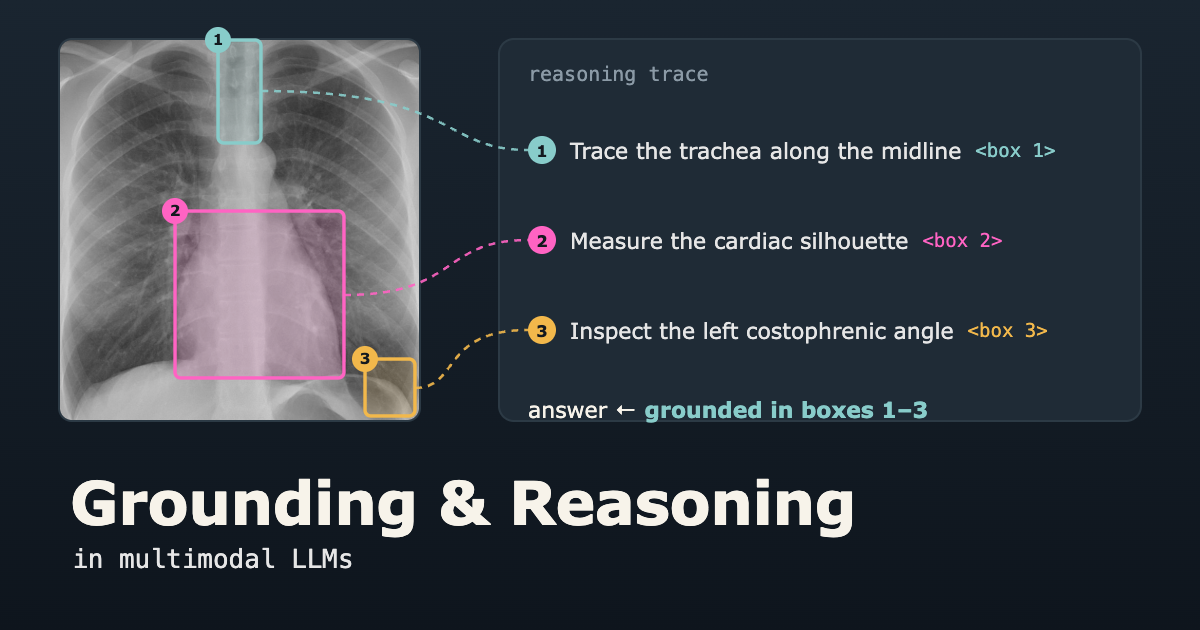
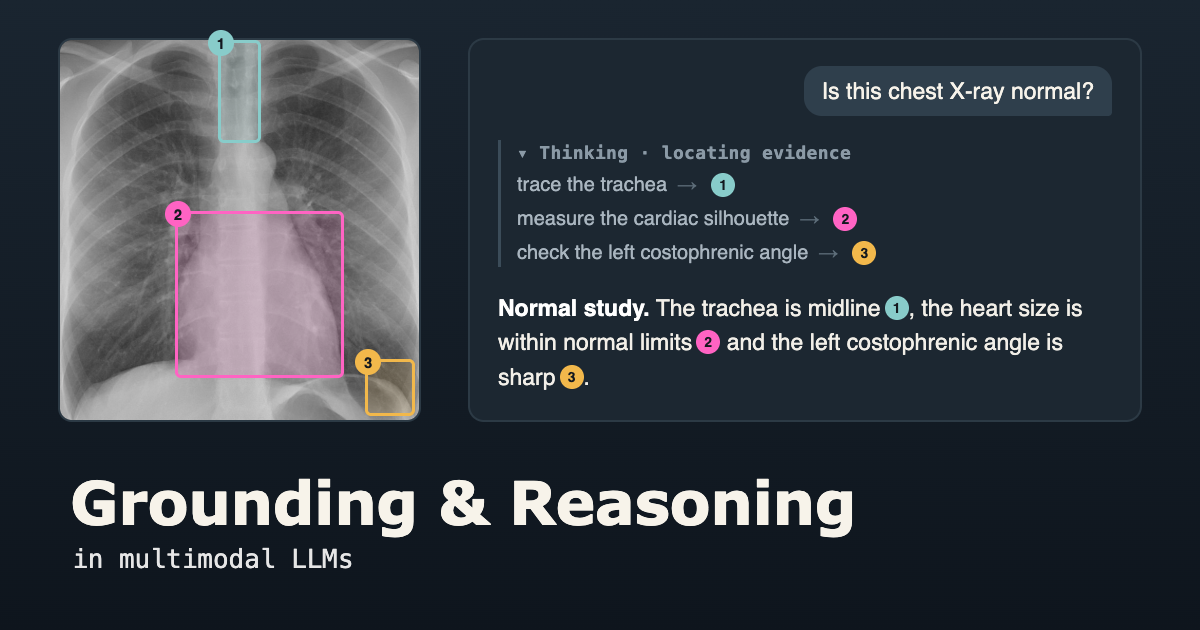
Redesign the Grounding thumbnail as a cited chat answer and indent the question list

diff --git a/pages/works/grounding-reasoning.js b/pages/works/grounding-reasoning.js
@@ -31,7 +31,7 @@ const Work = () => (
         project asks how to make the answers of multimodal LLMs traceable to the
         evidence they were given. Four questions guide it:
       </P>
-      <OrderedList spacing={0.5} my={3} pl={2}>
+      <OrderedList spacing={0.5} my={3} pl={10}>
         <ListItem>
           Where inside a vision-language model does visual evidence enter the
           answer, and where does it get lost?

diff --git a/figures/grounding_thumbnail/gen.py b/figures/grounding_thumbnail/gen.py
@@ -1,49 +1,55 @@
+"""Grounding & Reasoning thumbnail (1200x630).
+Left: CC0 chest radiograph with numbered evidence boxes.
+Right: chat transcript - question, thinking steps that locate evidence, answer with
+Perplexity-style citation chips whose numbers and colours match the boxes.
+The source image is labelled a normal PA radiograph on Wikimedia Commons; the answer
+only restates that, citing the regions it rests on."""
 import sys
 out = sys.argv[1]
-# X-ray panel geometry (image is 1700x1800 crop -> 300x318)
 PX, PY, PW, PH = 60, 40, 359, 380
-def box(fx0, fx1, fy0, fy1):
-    return PX + fx0 * PW, PY + fy0 * PH, (fx1 - fx0) * PW, (fy1 - fy0) * PH
 TEAL, PINK, AMBER = "#88ccca", "#ff63c3", "#f2b84b"
-regions = [  # fractions of the crop, read off the radiograph
-    ("1", TEAL,  box(0.44, 0.56, 0.00, 0.27)),   # trachea
-    ("2", PINK,  box(0.32, 0.79, 0.45, 0.89)),   # cardiac silhouette
-    ("3", AMBER, box(0.85, 0.99, 0.84, 0.99)),   # left costophrenic angle
-]
-steps = [("1", TEAL, "Trace the trachea along the midline"),
-         ("2", PINK, "Measure the cardiac silhouette"),
-         ("3", AMBER, "Inspect the left costophrenic angle")]
-svg = []
-for n, c, (x, y, w, h) in regions:
-    svg.append(f'<rect x="{x:.0f}" y="{y:.0f}" width="{w:.0f}" height="{h:.0f}" rx="6" fill="{c}" fill-opacity=".14" stroke="{c}" stroke-width="3.5"/>')
-    svg.append(f'<circle cx="{x:.0f}" cy="{y:.0f}" r="13" fill="{c}"/><text x="{x:.0f}" y="{y+5:.0f}" font-size="15" font-weight="700" text-anchor="middle" fill="#14191f">{n}</text>')
-# reasoning card
-CX, CY, CW = 500, 40, 640
-rows_y = [150, 240, 330]
-for (n, c, s), ry, (_, _, (x, y, w, h)) in zip(steps, rows_y, regions):
-    # connector from region box right edge to step chip
-    sx, sy = x + w, y + h / 2
-    svg.append(f'<path d="M{sx:.0f} {sy:.0f} C {CX-40} {sy:.0f}, {CX-60} {ry}, {CX+28} {ry}" fill="none" stroke="{c}" stroke-width="2.5" stroke-dasharray="7 6" opacity=".9"/>')
-svg = "".join(svg)
-step_html = "".join(f'''<div class="step" style="top:{ry-24}px"><span class="chip" style="background:{c}">{n}</span><span class="txt">{s}</span><span class="ref" style="color:{c}">&lt;box {n}&gt;</span></div>''' for (n, c, s), ry in zip(steps, rows_y))
+REG = [("1", TEAL, (0.44, 0.56, 0.00, 0.27)),   # trachea
+       ("2", PINK, (0.32, 0.79, 0.45, 0.89)),   # cardiac silhouette
+       ("3", AMBER, (0.85, 0.99, 0.84, 0.99))]  # left costophrenic angle
+boxes = "".join(
+    f'<div class="bx" style="left:{x0*100}%;top:{y0*100}%;width:{(x1-x0)*100}%;height:{(y1-y0)*100}%;'
+    f'border-color:{c};background:{c}22"><span class="tag" style="background:{c}">{n}</span></div>'
+    for n, c, (x0, x1, y0, y1) in REG)
+chip = lambda n, c: f'<span class="cite" style="background:{c}">{n}</span>'
+C = {n: c for n, c, _ in REG}
 html = f"""<!doctype html><meta charset=utf-8><style>
+*{{box-sizing:border-box}}
 html,body{{margin:0;width:1200px;height:630px;overflow:hidden}}
-body{{background:linear-gradient(180deg,#1a2530,#0e151d);font-family:'DejaVu Sans',Verdana,sans-serif;position:relative;color:#e6e6e6}}
-.xr{{position:absolute;left:{PX}px;top:{PY}px;width:{PW}px;height:{PH}px;border-radius:12px;box-shadow:0 0 0 2px #2c3a45}}
-svg{{position:absolute;left:0;top:0}}
-.card{{position:absolute;left:{CX}px;top:{CY}px;width:{CW}px;height:{PH}px;border-radius:14px;background:#1f2b36;box-shadow:0 0 0 2px #2c3a45}}
-.head{{position:absolute;left:{CX+28}px;top:{CY+22}px;font:20px Menlo,monospace;color:#8b9aa6}}
-.step{{position:absolute;left:{CX+28}px;height:48px;display:flex;align-items:center;gap:14px;font-size:22px}}
-.chip{{width:28px;height:28px;border-radius:50%;color:#14191f;font-weight:700;font-size:16px;display:flex;align-items:center;justify-content:center}}
-.ref{{font:19px Menlo,monospace}}
-.ans{{position:absolute;left:{CX+28}px;top:{CY+356}px;font-size:22px;color:#f7f3ea}}
-.ans b{{color:#88ccca}}
-h1{{position:absolute;left:70px;bottom:92px;margin:0;color:#f7f3ea;font-size:60px;font-weight:700;letter-spacing:-.5px}}
-p{{position:absolute;left:72px;bottom:56px;margin:0;color:#e6e6e6;font:26px Menlo,monospace}}
+body{{background:linear-gradient(180deg,#1a2530,#0e151d);font-family:Helvetica,Arial,sans-serif;color:#e6e6e6;position:relative}}
+.xr{{position:absolute;left:{PX}px;top:{PY}px;width:{PW}px;height:{PH}px;border-radius:12px;overflow:visible;box-shadow:0 0 0 2px #2c3a45}}
+.xr img{{width:100%;height:100%;display:block;border-radius:12px}}
+.bx{{position:absolute;border:3.5px solid;border-radius:6px}}
+.tag{{position:absolute;left:-13px;top:-13px;width:26px;height:26px;border-radius:50%;color:#14191f;font:700 15px Helvetica,Arial,sans-serif;display:flex;align-items:center;justify-content:center}}
+.chat{{position:absolute;left:470px;top:{PY}px;width:670px;height:{PH}px;border-radius:14px;background:#1c2731;box-shadow:0 0 0 2px #2c3a45;
+      padding:26px 28px;display:flex;flex-direction:column;justify-content:space-between}}
+.q{{align-self:flex-end;background:#2f3f4c;color:#f7f3ea;border-radius:18px 18px 4px 18px;padding:12px 18px;font-size:23px}}
+.think{{border-left:3px solid #3b4c59;padding:2px 0 2px 16px;display:flex;flex-direction:column;gap:10px}}
+.th{{font:600 18px Menlo,monospace;color:#8b9aa6;letter-spacing:.3px}}
+.st{{display:flex;align-items:center;gap:10px;font-size:20px;color:#a9b5bf}}
+.st .ar{{color:#5d6d79}}
+.ans{{font-size:23px;line-height:1.5;color:#f2efe8}}
+.ans b{{color:#fff}}
+.cite{{display:inline-flex;align-items:center;justify-content:center;width:24px;height:24px;border-radius:50%;
+       color:#14191f;font:700 14px Helvetica,Arial,sans-serif;vertical-align:3px;margin-left:4px}}
+h1{{position:absolute;left:70px;bottom:92px;margin:0;font-family:Verdana,'DejaVu Sans',sans-serif;color:#f7f3ea;font-size:60px;font-weight:700;letter-spacing:-.5px}}
+p.sub{{position:absolute;left:72px;bottom:56px;margin:0;color:#e6e6e6;font:26px Menlo,monospace}}
 </style>
-<img class=xr src="cxr.jpg"><div class=card></div><div class=head>reasoning trace</div>
-{step_html}
-<div class=ans>answer &larr; <b>grounded in boxes 1&ndash;3</b></div>
-<svg width=1200 height=630 font-family="DejaVu Sans,Verdana,sans-serif">{svg}</svg>
-<h1>Grounding &amp; Reasoning</h1><p>in multimodal LLMs</p>"""
+<div class="xr"><img src="cxr.jpg">{boxes}</div>
+<div class="chat">
+  <div class="q">Is this chest X-ray normal?</div>
+  <div class="think">
+    <div class="th">&#9662; Thinking &middot; locating evidence</div>
+    <div class="st">trace the trachea <span class="ar">&rarr;</span>{chip('1', C['1'])}</div>
+    <div class="st">measure the cardiac silhouette <span class="ar">&rarr;</span>{chip('2', C['2'])}</div>
+    <div class="st">check the left costophrenic angle <span class="ar">&rarr;</span>{chip('3', C['3'])}</div>
+  </div>
+  <div class="ans"><b>Normal study.</b> The trachea is midline{chip('1', C['1'])}, the heart size is within
+    normal limits{chip('2', C['2'])} and the left costophrenic angle is sharp{chip('3', C['3'])}.</div>
+</div>
+<h1>Grounding &amp; Reasoning</h1><p class="sub">in multimodal LLMs</p>"""
 open(out, "w").write(html)

diff --git a/figures/grounding_thumbnail/SOURCE.md b/figures/grounding_thumbnail/SOURCE.md
@@ -4,6 +4,6 @@
   Wikimedia Commons, CC0 1.0 (public domain dedication).
   https://commons.wikimedia.org/wiki/File:Normal_posteroanterior_(PA)_chest_radiograph_(X-ray).jpg
   Cropped to remove the side markers (`cxr.jpg`).
-- Boxes mark anatomy only (trachea, cardiac silhouette, left costophrenic angle); the reasoning
-  steps describe what to inspect, not findings.
+- Boxes mark anatomy (trachea, cardiac silhouette, left costophrenic angle). The chat answer only
+  restates the source's "normal radiograph" label, citing the boxed regions.
 - Build: `python3 gen.py thumb.html` next to `cxr.jpg`, then screenshot at 1200x630 in headless Chrome.
